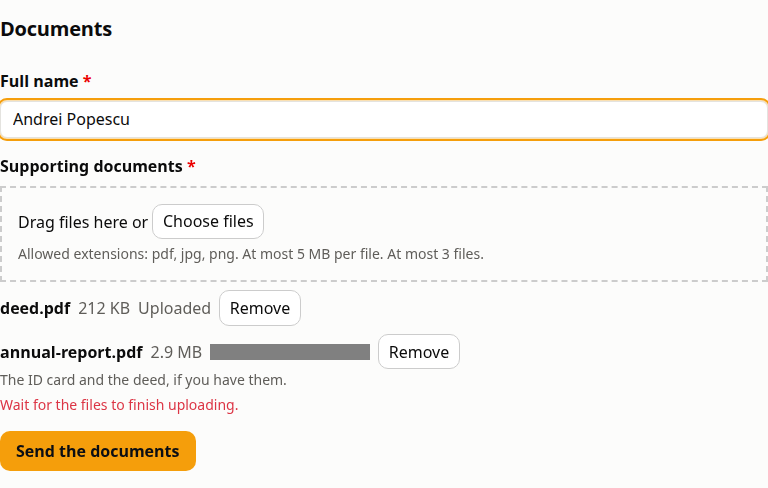
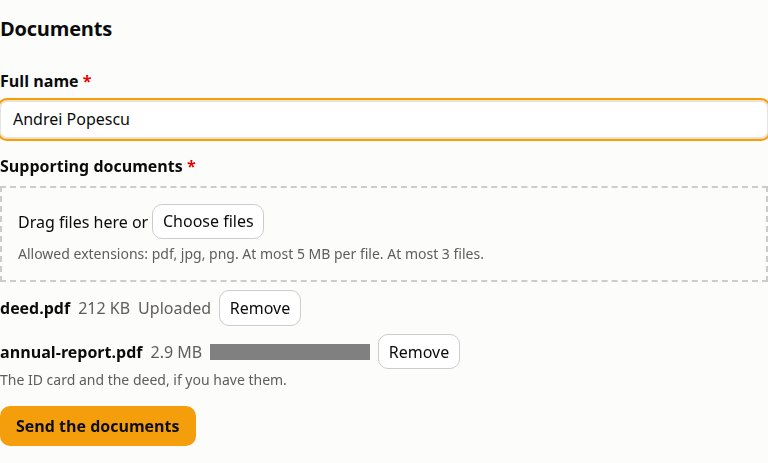
docs(portal): retake the pictures of files in a row and of the close window action, and say when the unfinished state is told

diff --git a/src/content/docs/portal/sites/form-field-types.md b/src/content/docs/portal/sites/form-field-types.md
@@ -356,9 +356,9 @@ A drop zone: "Drag files here or **Choose files**", with the limits under it: "A
 
 Each file goes up as soon as it is added, one at a time. Its row shows its name and size, a progress bar while it goes up, **Uploaded** when it is done, and **Remove** to take it off. The form is sent with the files that went up well.
 
-![A file going up: deed.pdf is Uploaded, annual-report.pdf shows its progress bar, and the field says "Wait for the files to finish uploading."](../../../../assets/screenshots/portal-fields-files-progress.png)
+![A file going up: deed.pdf is Uploaded and annual-report.pdf shows its progress bar. Nothing is said at the field yet.](../../../../assets/screenshots/portal-fields-files-progress.png)
 
-The form cannot be sent while a file is still going up ("Wait for the files to finish uploading.") or when one failed ("Remove the files that could not be uploaded.").
+The form cannot be sent while a file is still going up or when one failed. While files go up, each one shows its own state and the field says nothing. Only when the person presses send does the field say "Wait for the files to finish uploading." or, when a file failed, "Remove the files that could not be uploaded."
 
 A refused file says why, beside its own row:
 
